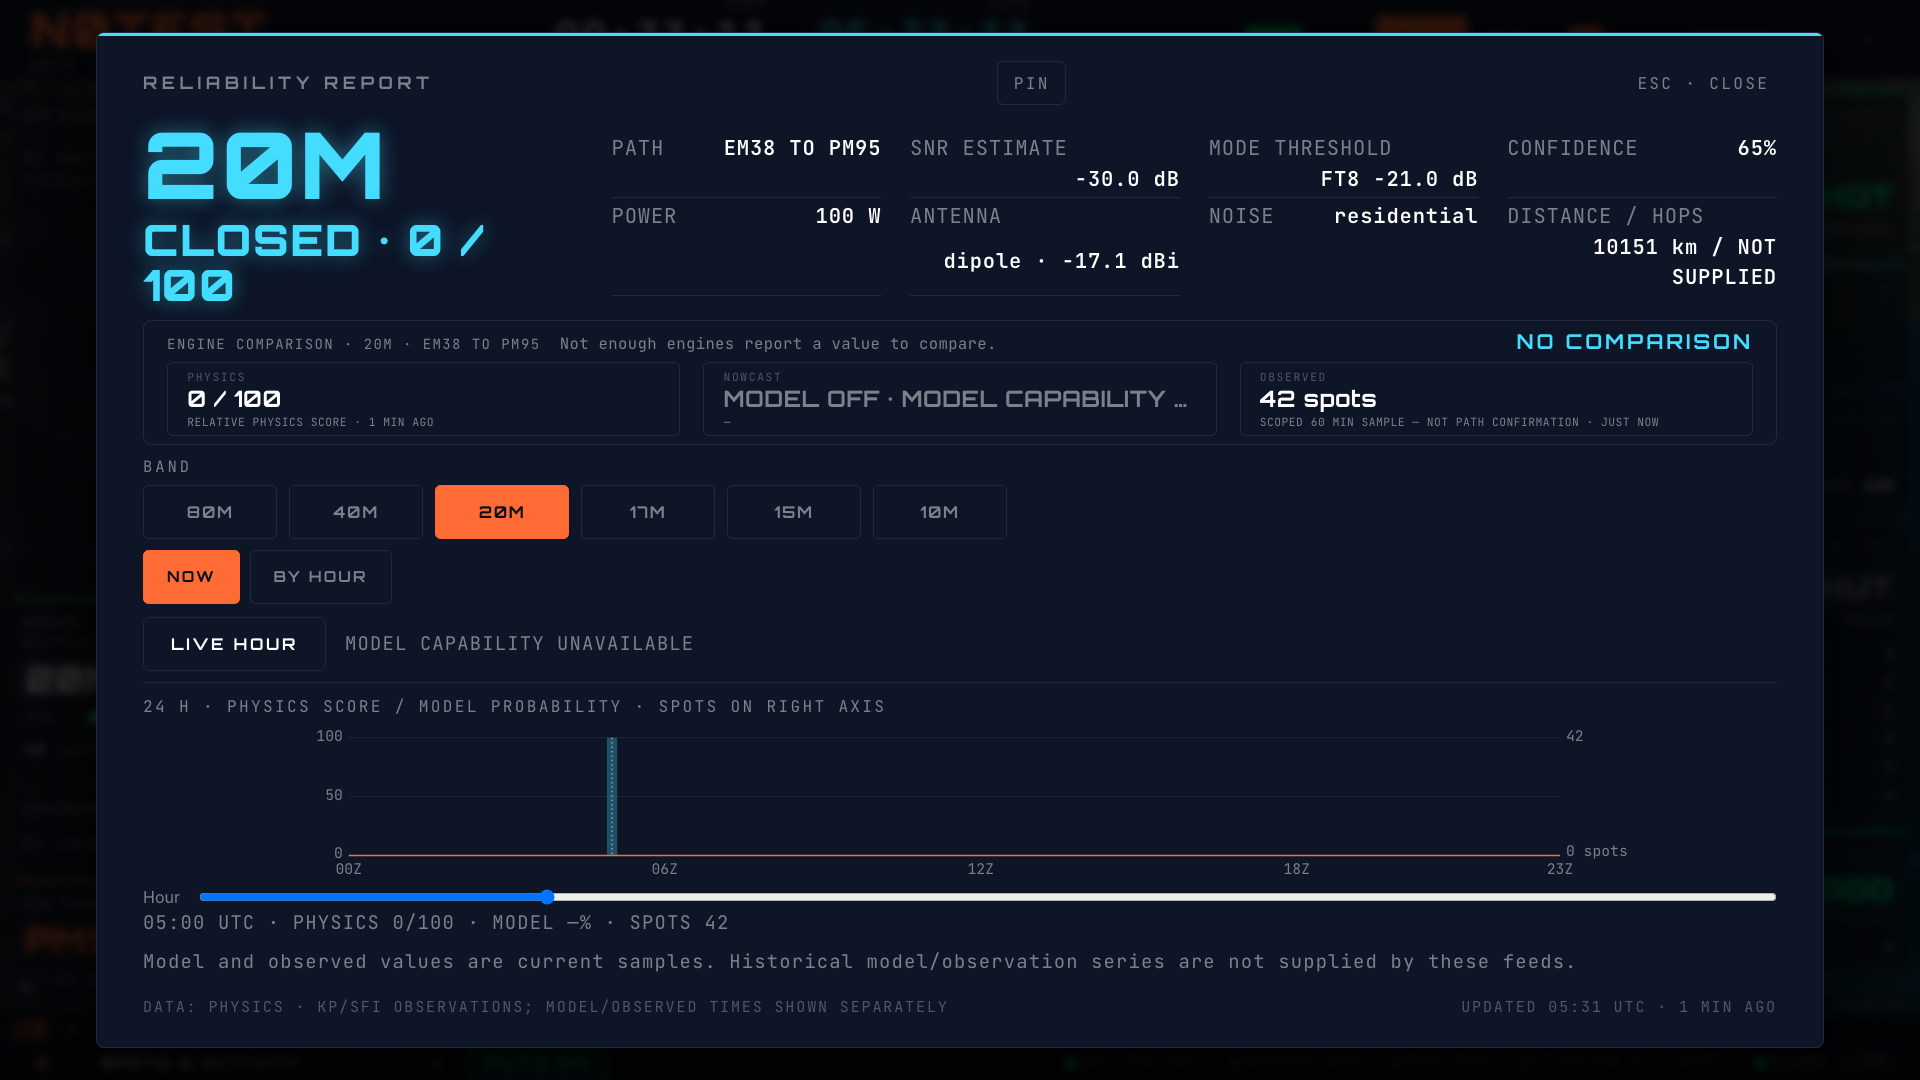
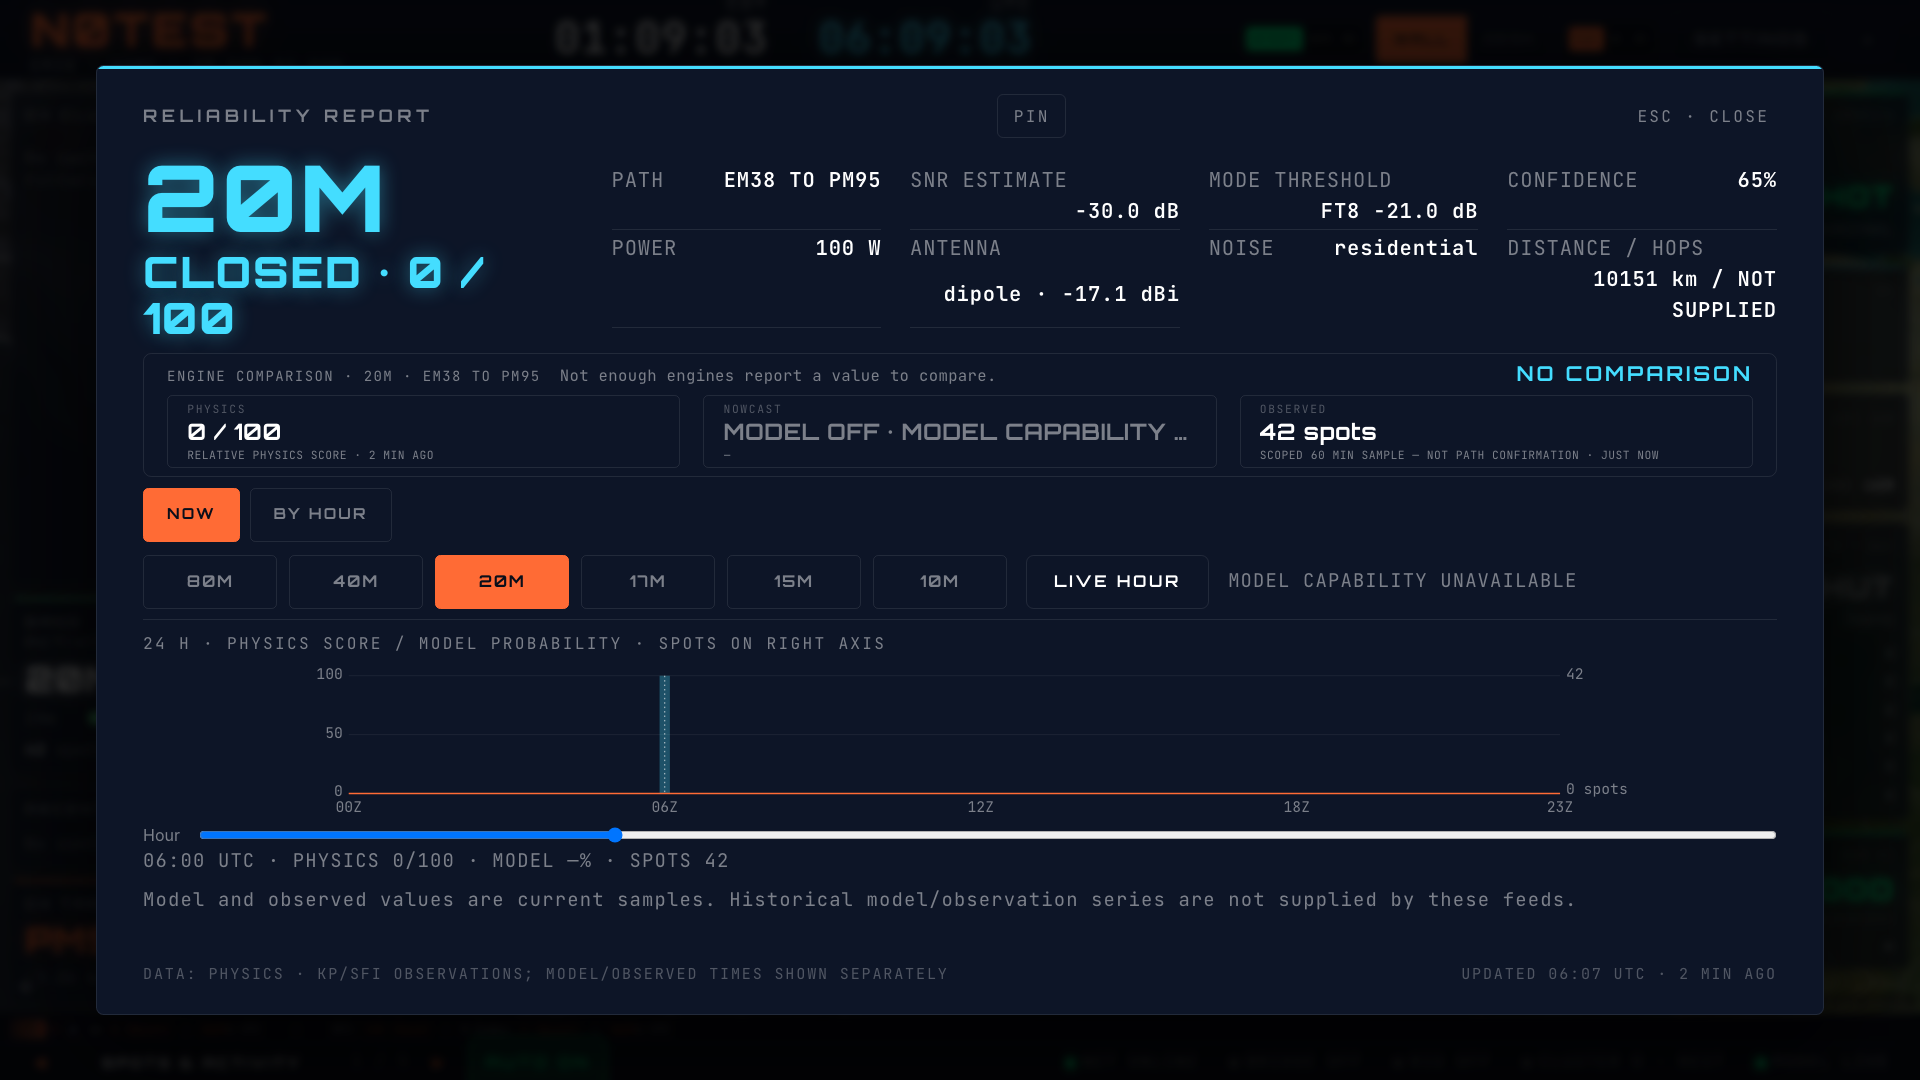
fix: address reliability report review boundaries

diff --git a/src/components/map/hamclock/wall/reports/ReliabilityReport.tsx b/src/components/map/hamclock/wall/reports/ReliabilityReport.tsx
@@ -46,7 +46,7 @@ export function ReliabilityReport({ open, onClose }: { open: boolean; onClose: (
     { label: "POWER", value: `${wall.inputs.powerWatts} W` },
     { label: "ANTENNA", value: `${wall.inputs.antennaType} · ${wall.inputs.antennaGainDbi?.toFixed(1) ?? "—"} dBi` },
     { label: "NOISE", value: wall.inputs.noiseEnvironment?.replace(/_/g, " ") ?? "ENGINE DEFAULT" },
-    { label: "DISTANCE / HOPS", value: wall.inputs.distanceKm === null ? "NO TARGET" : `${Math.round(wall.inputs.distanceKm)} km / NOT SUPPLIED` },
+    { label: "DISTANCE / HOPS", value: !data.location ? "NO STATION" : wall.inputs.distanceKm === null ? "NO TARGET" : `${Math.round(wall.inputs.distanceKm)} km / NOT SUPPLIED` },
   ];
   const chartModel = data.liveModel?.prediction;
   const chartPoints = physics.slice(0, 24).map(point => ({
@@ -59,9 +59,8 @@ export function ReliabilityReport({ open, onClose }: { open: boolean; onClose: (
     pinId="reliability" pinElement={<ReliabilityReport open onClose={onClose} />}>
     <EngineComparisonStrip subject={`${band.toUpperCase()} · ${data.sourceLabel}`} physics={physicsReading} nowcast={nowcastReading} observed={observedReading}
       classify={(value, unit) => unit === "spots" ? null : probabilityStepClassifier()(value, unit)} />
-    <HamClockSegmented label="Band" value={band} options={WALL_FORECAST_BANDS.map(value => ({ value, label: value.toUpperCase() }))} onChange={setBand} />
     <HamClockTabs label="Reliability views" tabs={[
-      { id: "now", label: "NOW", content: <><div className="hcr-reliability-toolbar"><button type="button" className="hcc-btn" onClick={() => setSelectedHour(undefined)}>LIVE HOUR</button><p className="hcr-note">{prediction ? `MODEL ${prediction.model_version} · ${modelWords(prediction.ood_flags)}` : model.reason}</p></div><div className="hcr-chart"><p className="hcr-chart-title">24 H · PHYSICS SCORE / MODEL PROBABILITY · SPOTS ON RIGHT AXIS</p><ForecastComparisonChart points={chartPoints} selectedHour={data.hourIndex} nowHour={Math.floor(Date.now() / FORECAST_HOUR_MS)} onSelect={setSelectedHour} /></div><p className="hcr-note">Model and observed values are current samples. Historical model/observation series are not supplied by these feeds.</p></> },
+      { id: "now", label: "NOW", content: <><div className="hcr-reliability-toolbar"><HamClockSegmented hideLabel label="Band" value={band} options={WALL_FORECAST_BANDS.map(value => ({ value, label: value.toUpperCase() }))} onChange={setBand} /><button type="button" className="hcc-btn" onClick={() => setSelectedHour(undefined)}>LIVE HOUR</button><p className="hcr-note">{prediction ? `MODEL ${prediction.model_version} · ${modelWords(prediction.ood_flags)}` : model.reason}</p></div><div className="hcr-chart"><p className="hcr-chart-title">24 H · PHYSICS SCORE / MODEL PROBABILITY · SPOTS ON RIGHT AXIS</p><ForecastComparisonChart points={chartPoints} selectedHour={data.hourIndex} nowHour={Math.floor(Date.now() / FORECAST_HOUR_MS)} onSelect={setSelectedHour} /></div><p className="hcr-note">Model and observed values are current samples. Historical model/observation series are not supplied by these feeds.</p></> },
       { id: "hours", label: "BY HOUR", content: <ReliabilityGrid matrix={data.matrix} start={data.dayStart} selectedBand={band} selectedHour={data.hourIndex} onSelect={(nextBand, hour) => { setBand(nextBand); setSelectedHour(hour); }} /> },
     ]} />
   </WallReport>;

diff --git a/src/components/map/hamclock/wall/reports/reports.b18.test.tsx b/src/components/map/hamclock/wall/reports/reports.b18.test.tsx
@@ -1,3 +1,5 @@
+import type { PropagationPrediction } from "@/lib/propagation/modelClient";
+import { horizonEvidence, modelEvidence, modelWords, reportPathLabel } from "./forecastEvidence";
 import { fireEvent, render, screen, within } from "@testing-library/react";
 import { expect, it, vi } from "vitest";
 import { ReliabilityReport } from "./ReliabilityReport";
@@ -67,4 +69,45 @@ it("maps pointer hours inside the SVG plot after accounting for aspect-ratio gut
   expect(select).toHaveBeenLastCalledWith(0);
   fireEvent(svg, new MouseEvent("pointermove", { bubbles: true, clientX: 450 + 1715 / 2 }));
   expect(select).toHaveBeenLastCalledWith(23);
+});
+
+const now = Date.parse("2026-09-07T20:05:00Z");
+const prediction: PropagationPrediction = {
+  band: "20m", target_grid4: "PM95", mode: "FT8", profile: "nowcast",
+  issue_time: new Date(now).toISOString(), valid_time: new Date(now).toISOString(),
+  core_probability: 0.7, personalized_probability: 0.8, confidence: 0.9,
+  model_version: "fixture", feature_contract: "fixture", ood_flags: [], top_factors: [], assumptions: [], data_freshness: {},
+};
+const context = { band: "20m", targetGrid: "PM95aa", mode: "FT8", hourIndex: Math.floor(now / 3_600_000), now };
+it("rejects neighboring scope, time and fallback values instead of comparing them", () => {
+  expect(modelEvidence(prediction, context).prediction).toBe(prediction);
+  for (const patch of [{ band: "40m" }, { target_grid4: "EM38" }, { mode: "SSB" }, { profile: "physics" }, { valid_time: new Date(now + 3_600_000).toISOString() }, { issue_time: new Date(now - 16 * 60_000).toISOString() }, { confidence: NaN }]) {
+    expect(modelEvidence({ ...prediction, ...patch }, context).prediction).toBeNull();
+  }
+});
+it("keeps every horizon visible and never extends the current prediction", () => {
+  const rows = horizonEvidence([3], new Map([[3, prediction]]), { ...context, issueTime: now }, "RUNTIME NOT ACTIVATED");
+  expect(rows.map(row => row.hours)).toEqual([3, 6, 12, 24]);
+  expect(rows[0].reason).toBe("SELECTED HOUR NOT COVERED");
+  expect(rows.slice(1).every(row => row.reason === "RUNTIME NOT ACTIVATED")).toBe(true);
+  const future = { ...prediction, valid_time: new Date(now + 3 * 3_600_000).toISOString() };
+  expect(horizonEvidence([3], new Map([[3, future]]), { ...context, issueTime: now }, "OFF")[0].prediction).toBe(future);
+});
+it("spells out model flags", () => {
+  expect(modelWords(["path_history_stale", "outside-training-range"])).toBe("path history stale · outside training range");
+  expect(modelWords([])).toBe("NONE REPORTED");
+});
+
+it("names a missing station before considering a retained target", () => {
+  expect(reportPathLabel(null, "PM95")).toBe("NO STATION — SET OPERATING LOCATION");
+  expect(reportPathLabel(null, null)).toBe("NO STATION — SET OPERATING LOCATION");
+  expect(reportPathLabel("EM38", null)).toBe("NO TARGET — SHOWING QTH");
+  expect(reportPathLabel("EM38", "PM95")).toBe("EM38 TO PM95");
+});
+
+it("rejects malformed model scope and metadata without crashing the report", () => {
+  for (const patch of [{ target_grid4: null }, { mode: undefined }, { ood_flags: [1] }, { top_factors: null }, { data_freshness: { solar: -1 } }]) {
+    const raw: unknown = { ...prediction, ...patch };
+    expect(modelEvidence(raw as PropagationPrediction, context).prediction).toBeNull();
+  }
 });

diff --git a/src/components/map/hamclock/wall/reports/forecastEvidence.ts b/src/components/map/hamclock/wall/reports/forecastEvidence.ts
@@ -26,6 +26,7 @@ export function modelEvidence(
   if (!context.targetGrid) return unavailable("NO TARGET — PATH MODEL UNAVAILABLE");
   if (!prediction) return unavailable("NO MODEL RESPONSE");
   if (prediction.profile !== "nowcast") return unavailable("PHYSICS FALLBACK — NO MODEL VALUE");
+  if (typeof prediction.target_grid4 !== "string" || typeof prediction.mode !== "string") return unavailable("INVALID MODEL SCOPE");
   if (prediction.band !== context.band || prediction.target_grid4.toUpperCase() !== context.targetGrid.toUpperCase().slice(0, 4)) return unavailable("DIFFERENT PATH OR BAND");
   if (prediction.mode.toUpperCase() !== context.mode.toUpperCase()) return unavailable("DIFFERENT MODE");
   const issued = Date.parse(prediction.issue_time);
@@ -34,6 +35,10 @@ export function modelEvidence(
   if (Math.floor(valid / FORECAST_HOUR_MS) !== context.hourIndex) return unavailable("SELECTED HOUR NOT COVERED");
   if (context.now - issued > MAX_MODEL_AGE_MS) return unavailable("MODEL RESPONSE OLDER THAN 15 MIN");
   if (![prediction.core_probability, prediction.personalized_probability, prediction.confidence].every(value => Number.isFinite(value) && value >= 0 && value <= 1)) return unavailable("INVALID MODEL VALUE");
+  if (typeof prediction.model_version !== "string" ||
+    ![prediction.ood_flags, prediction.top_factors, prediction.assumptions].every(values => Array.isArray(values) && values.every(value => typeof value === "string")) ||
+    !prediction.data_freshness || typeof prediction.data_freshness !== "object" || Array.isArray(prediction.data_freshness) ||
+    !Object.values(prediction.data_freshness).every(value => typeof value === "number" && Number.isFinite(value) && value >= 0)) return unavailable("INVALID MODEL METADATA");
   return { prediction, reason: null };
 }
 
@@ -57,4 +62,10 @@ export function horizonEvidence(
         hourIndex: Math.floor((context.issueTime + hours * FORECAST_HOUR_MS) / FORECAST_HOUR_MS),
       })),
   }));
+}
+
+/** Missing origin is distinct from the valid station-wide, no-target view. */
+export function reportPathLabel(originGrid: string | null, targetGrid: string | null): string {
+  if (!originGrid) return "NO STATION — SET OPERATING LOCATION";
+  return targetGrid ? `${originGrid} TO ${targetGrid}` : "NO TARGET — SHOWING QTH";
 }

diff --git a/src/components/map/hamclock/wall/reports/useReliabilityReportData.ts b/src/components/map/hamclock/wall/reports/useReliabilityReportData.ts
@@ -11,7 +11,7 @@ import { continentForLatLon } from "@/lib/utils/continent";
 import { stationPhysicsScores } from "@/lib/verdict/physicsScore";
 import { useMapStore } from "@/stores/mapStore";
 import { useWallReliability, WALL_FORECAST_BANDS } from "../tiles/useWallReliability";
-import { FORECAST_HOUR_MS, modelEvidence } from "./forecastEvidence";
+import { FORECAST_HOUR_MS, modelEvidence, reportPathLabel } from "./forecastEvidence";
 
 /** Presentation joins existing sources; never changes engine/gate behavior. */
 export function useReliabilityReportData(band: string, selectedHour?: number) {
@@ -82,6 +82,6 @@ export function useReliabilityReportData(band: string, selectedHour?: number) {
   return { wall, location, target: targetContext, nowcast, model, liveModel, physics, matrix, liveObserved, hourIndex, dayStart,
     cell: wall.cells.get(`${band}:${hourIndex}`) ?? null,
     observed, activityAt, activityError: activity.isError, scope,
-    sourceLabel: targetContext ? `${originGrid} TO ${targetContext.grid}` : "NO TARGET — SHOWING QTH",
+    sourceLabel: reportPathLabel(originGrid, targetContext?.grid ?? null),
   };
 }

diff --git a/src/styles/hamclock-wall-report.css b/src/styles/hamclock-wall-report.css
@@ -1061,7 +1061,7 @@
   font: max(1.2vh, 12px) var(--hc-font-mono);
 }
 .hcr-reliability-grid button {
-  min-height: max(3.8vh, 36px);
+  min-height: max(3.8vh, 44px);
   border: 1px solid var(--hc-line);
   background: transparent;
 }
@@ -1083,7 +1083,7 @@
 .hcr:has(.hcr-reliability-grid),
 .hcr:has(.hcr-comparison-chart) {
   width: 90vw;
-  height: 94vh;
+  height: 88vh;
   gap: 1.2vh;
 }
 .hcr:has(.hcr-comparison-chart) .hcr-facts,

diff --git a/docs/designs/hamclock-reliability-report.md b/docs/designs/hamclock-reliability-report.md
@@ -6,7 +6,7 @@ The full six-band, 24-hour grid has 144 selectable cells and a screen-reader tab
 
 ## Source boundaries
 
-- No target uses the existing station-local physics calculation and says NO TARGET — SHOWING QTH. It does not manufacture path SNR or confidence.
+- A missing station says NO STATION — SET OPERATING LOCATION, including when a target was retained. No target with a configured station uses the existing station-local physics calculation and says NO TARGET — SHOWING QTH. It does not manufacture path SNR or confidence.
 - Model evidence must match the active station, band, target, mode and selected UTC hour; it must be a model response rather than physics fallback, with valid probabilities and an issue age at most 15 minutes. Disabled/unavailable model capability stays unavailable.
 - Only current model and observation samples exist in these feeds. Missing historical values remain gaps, rather than stretching today's sample across the chart. Observations retain their source hour and public assistance policy applies to requests and cached reads.
 - Hop count is not supplied by the reliability cell contract; the distance fact explicitly says NOT SUPPLIED for hops. Reliability mathematics and model/runtime gates are unchanged.
@@ -14,8 +14,21 @@ The full six-band, 24-hour grid has 144 selectable cells and a screen-reader tab
 
 ## Verification
 
-30 focused tests cover station inputs, source timestamps, evidence rejection, horizon gaps, grid selection, screen-reader output keyboard chart selection and pointer selection with SVG aspect-ratio gutters. Lint, production build and bundle budgets pass. The full app suite passed 3,209 tests in 366 files; the explicitly requested wall suite passed 318 tests in 30 files. The full verification run reached its build stage after the Python/archive, app, bridge and daemon checks passed; the final hero adjustment exposed an unsupported prop, which was removed and the build/bundle stages then passed. The isolated browser matrix covers target and QTH states × pulse/classic/brass × 1080p/4K × NOW/BY HOUR (24 cases), populated scoped counts, all 144 grid buttons, cell selection and Escape focus return. No browser page errors or report overflow occurred. Screenshots were also inspected to catch overlapping notes and undersized axes that container overflow checks alone missed.
+32 focused tests cover station inputs, source timestamps, evidence rejection, horizon gaps, grid selection, screen-reader output keyboard chart selection and pointer selection with SVG aspect-ratio gutters. Lint, production build and bundle budgets pass. The full app suite passed 3,209 tests in 366 files; the explicitly requested wall suite passed 318 tests in 30 files. The full verification run reached its build stage after the Python/archive, app, bridge and daemon checks passed; the final hero adjustment exposed an unsupported prop, which was removed and the build/bundle stages then passed. The isolated browser matrix covers target and QTH states × pulse/classic/brass × 1080p/4K × NOW/BY HOUR (24 cases), populated scoped counts, all 144 grid buttons, cell selection and Escape focus return. No browser page errors or report overflow occurred. Screenshots were also inspected to catch overlapping notes and undersized axes that container overflow checks alone missed.
 
 The Forecast portion (HW-59) remains a separate B18 review slice; this report does not complete issue #226 by itself.
 
 ![Reliability report at 1080p](../images/hamclock-b18/reliability-1080p.png)
+
+## Review corrections
+
+Both feature registers now record HW-58 as partial: 45 delivered / 3 partial /
+25 not started; grand totals 306 / 10 / 36 with one deferred item. Source-boundary
+tests were consolidated into the report suite to keep this PR at 15 files while
+updating both registers. Malformed model scope and metadata are rejected.
+
+The NOW band selector shares its toolbar with the live-hour action. This keeps
+the report within 90vw × 88vh while preserving 44px minimum grid hit targets.
+The extended browser matrix passed 48 station/no-station × target/no-target ×
+theme × resolution × tab cases, explicitly measuring both limits. The original
+layout's oversize panel is corrected; screenshots below reflect the correction.

diff --git a/docs/FEATURE-TRACKER.md b/docs/FEATURE-TRACKER.md
@@ -21,10 +21,10 @@
 | v0.14.0 Polish & Infra (2026-02-10)     | 12        | 1       | 0           | 0        | 13      |
 | v0.15.0 Spot Watch System (2026-02-10)  | 22        | 2       | 0           | 0        | 24      |
 | v0.16.0 NCS Workflow + QSO (2026-02-11) | 38        | 0       | 0           | 0        | 38      |
-| HamClock Wall (2026-09-05)              | 45        | 2       | 26          | 0        | 73      |
-| **Grand Total**                         | **306**   | **9**   | **37**      | **1**    | **353** |
+| HamClock Wall (2026-09-05)              | 45        | 3       | 25          | 0        | 73      |
+| **Grand Total**                         | **306**   | **10**  | **36**      | **1**    | **353** |
 
-**Delivery rate: 87% delivered, 3% partial, 10% not started**
+**Delivery rate: 86.7% delivered, 2.8% partial, 10.2% not started, 0.3% deferred**
 
 ---
 
@@ -669,14 +669,15 @@ _Source: `docs/designs/hamclock-wall-spec.md` (feature register HW-01 to HW-73).
 | HW-65 | EME computation module `src/lib/utils/eme.ts`                 | PR #253, EME module: eme.ts path loss, degradation, Doppler, sky noise, mutual window                                                                                          |
 | HW-66 | Moon and EME report                                           | PR #253, Moon report: MOON/EME tabs, band selector, sub-lunar point                                                                                                            |
 
-### Partial (2)
+### Partial (3)
 
 | ID    | Feature                 | Gap                                   |
 | ----- | ----------------------- | ------------------------------------- |
 | HW-18 | Weather alerts coverage | Nationwide feed, mapped geometry only |
 | HW-19 | SDR decodes tile        | Idle until a shared receiver exists   |
+| HW-58 | Reliability report | PR #494: dedicated report and current evidence; historical model/observed series and hop count are not supplied. [Evidence](designs/hamclock-reliability-report.md) |
 
-### Not Started (26)
+### Not Started (25)
 
 | ID    | Feature                                                          | Notes                                                |
 | ----- | ---------------------------------------------------------------- | ---------------------------------------------------- |
@@ -697,7 +698,6 @@ _Source: `docs/designs/hamclock-wall-spec.md` (feature register HW-01 to HW-73).
 | HW-47 | Monitored regions and RIM scores as a report                     | Moved from B16 to B23 with the RIM tile              |
 | HW-48 | EmComm forms and activation from the Emcomm tile                 |                                                      |
 | HW-49 | `/atmos` redirect or deep link                                   | Open decision D7                                     |
-| HW-58 | Reliability report: SNR, confidence, station inputs              | B18                                                  |
 | HW-59 | Propagation forecast report: 48 h chart, FutureCast horizons     | B18                                                  |
 | HW-67 | Open-Meteo fetch extended to hourly and 7-day                    | `src/lib/api/openMeteo.ts`; B22                      |
 | HW-68 | Alerts report: severity, area, expiry, map link                  | B22                                                  |

diff --git a/docs/designs/hamclock-wall-spec.md b/docs/designs/hamclock-wall-spec.md
@@ -501,7 +501,7 @@ Rows HW-40 to HW-49 in the feature register. All are Not started.
 | HW-72 | DX cluster modal adopts the report chrome, pin and footer                                   | Not started |                                       | section 26.16; chrome only, no new data                                                                                                                                                                                                                                                                                  |
 | HW-73 | Model track: weather-derived features in NowCast                                            | Not started |                                       | section 26.17; backlog, after every panel is live                                                                                                                                                                                                                                                                        |
 
-Totals: 45 delivered, 2 partial, 26 not started.
+Totals: 45 delivered, 3 partial, 25 not started.
 
 ## 22. Open decisions
 
